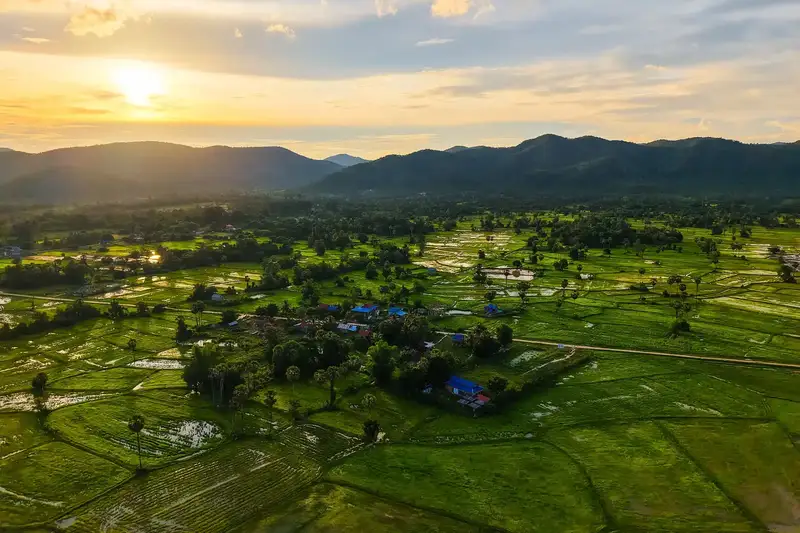
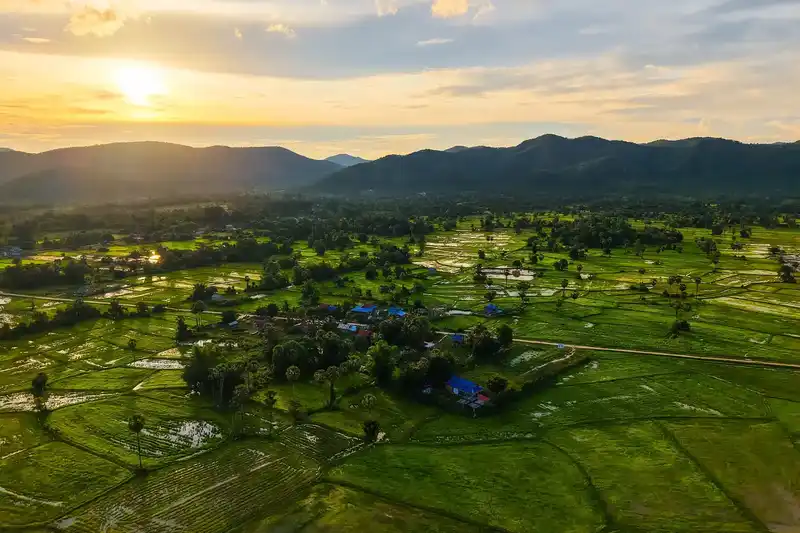
perf: further compress hero images and preload chained fonts to target 100 mobile performance

Changed region(s): [[0.5625, 0.4803, 0.5938, 0.5103]]

diff --git a/index.html b/index.html
@@ -40,9 +40,11 @@
     }
   </style>
   <link rel="preload" as="font" type="font/woff2" href="/fonts/inter-regular.woff2" crossorigin>
+  <link rel="preload" as="font" type="font/woff2" href="/fonts/inter-500.woff2" crossorigin>
   <link rel="preload" as="font" type="font/woff2" href="/fonts/fraunces-regular.woff2" crossorigin>
   <link rel="preload" as="font" type="font/woff2" href="/fonts/fraunces-500.woff2" crossorigin>
   <link rel="preload" as="font" type="font/woff2" href="/fonts/fraunces-italic.woff2" crossorigin>
+  <link rel="preload" as="font" type="font/woff2" href="/fonts/jetbrains-mono-regular.woff2" crossorigin>
 
   <title>Agrolytics - Smart Agricultural BI Kalimantan</title>
 </head>